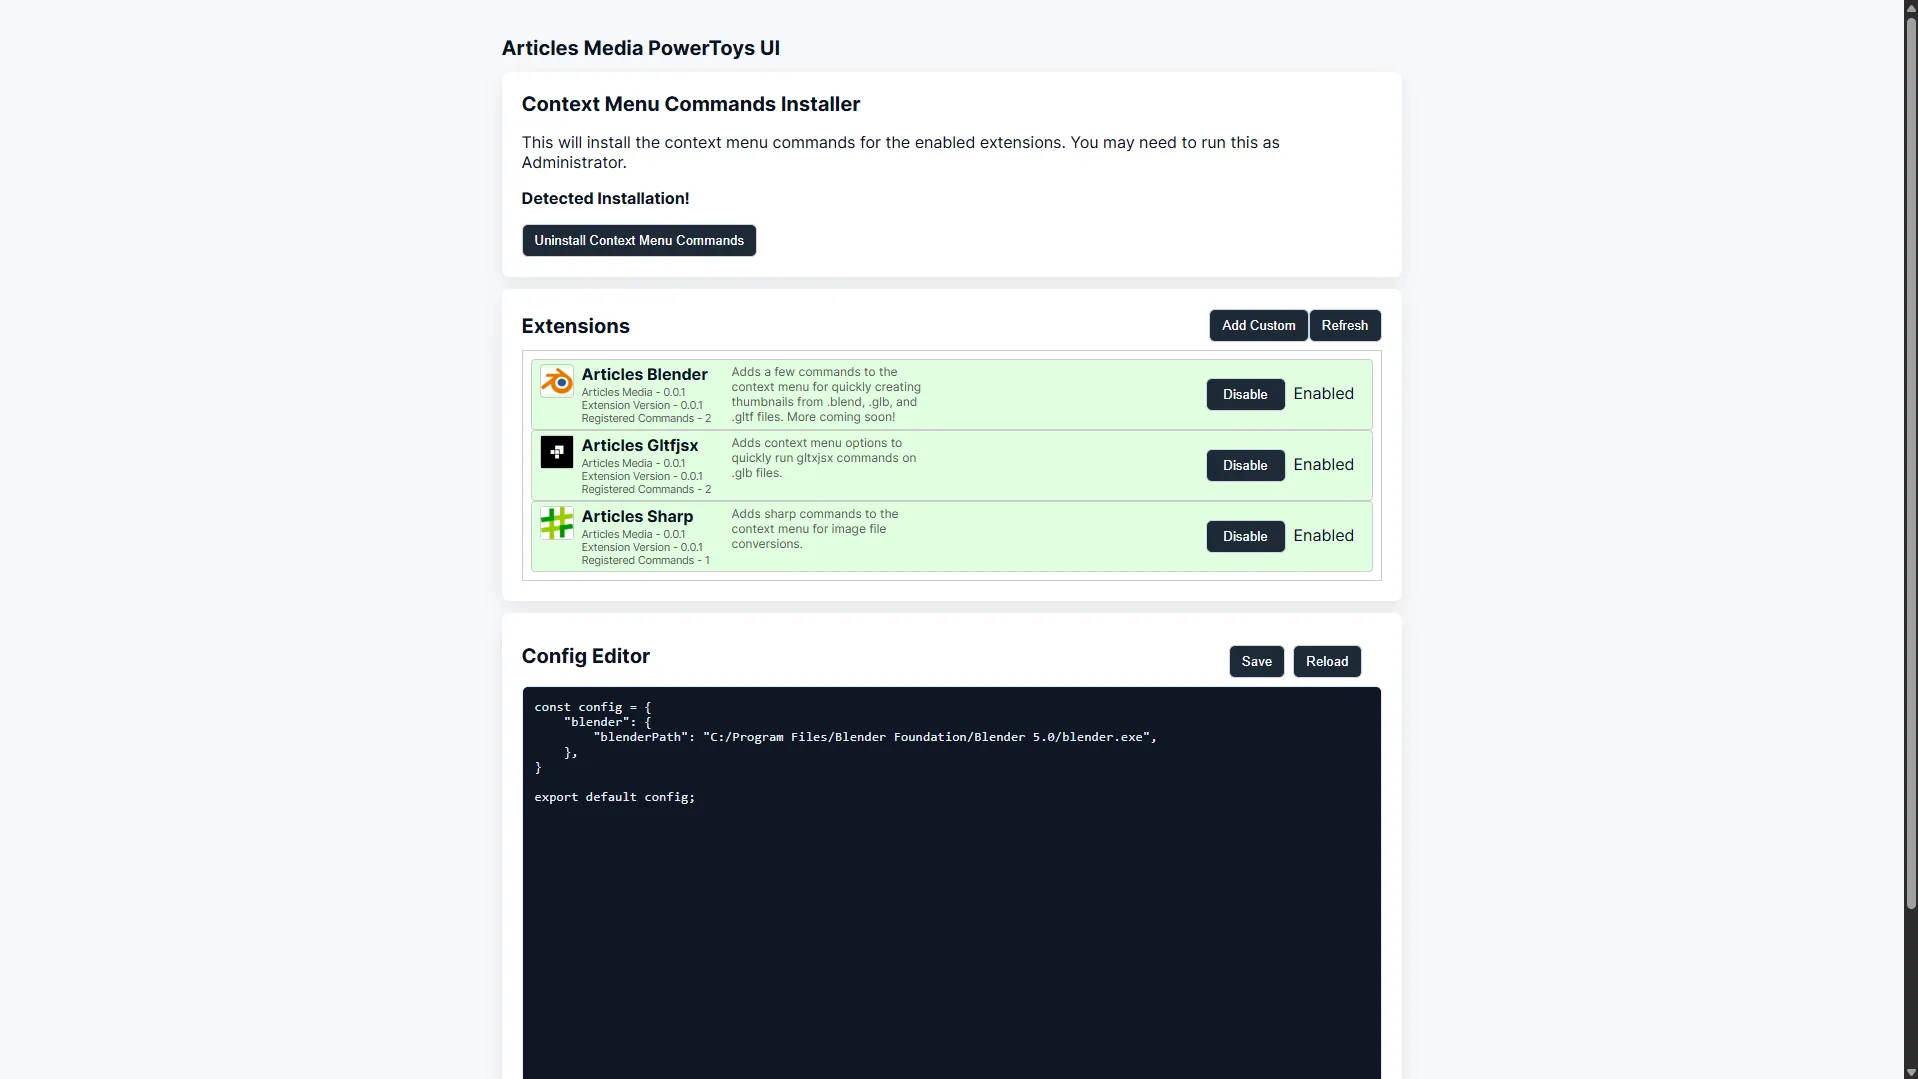
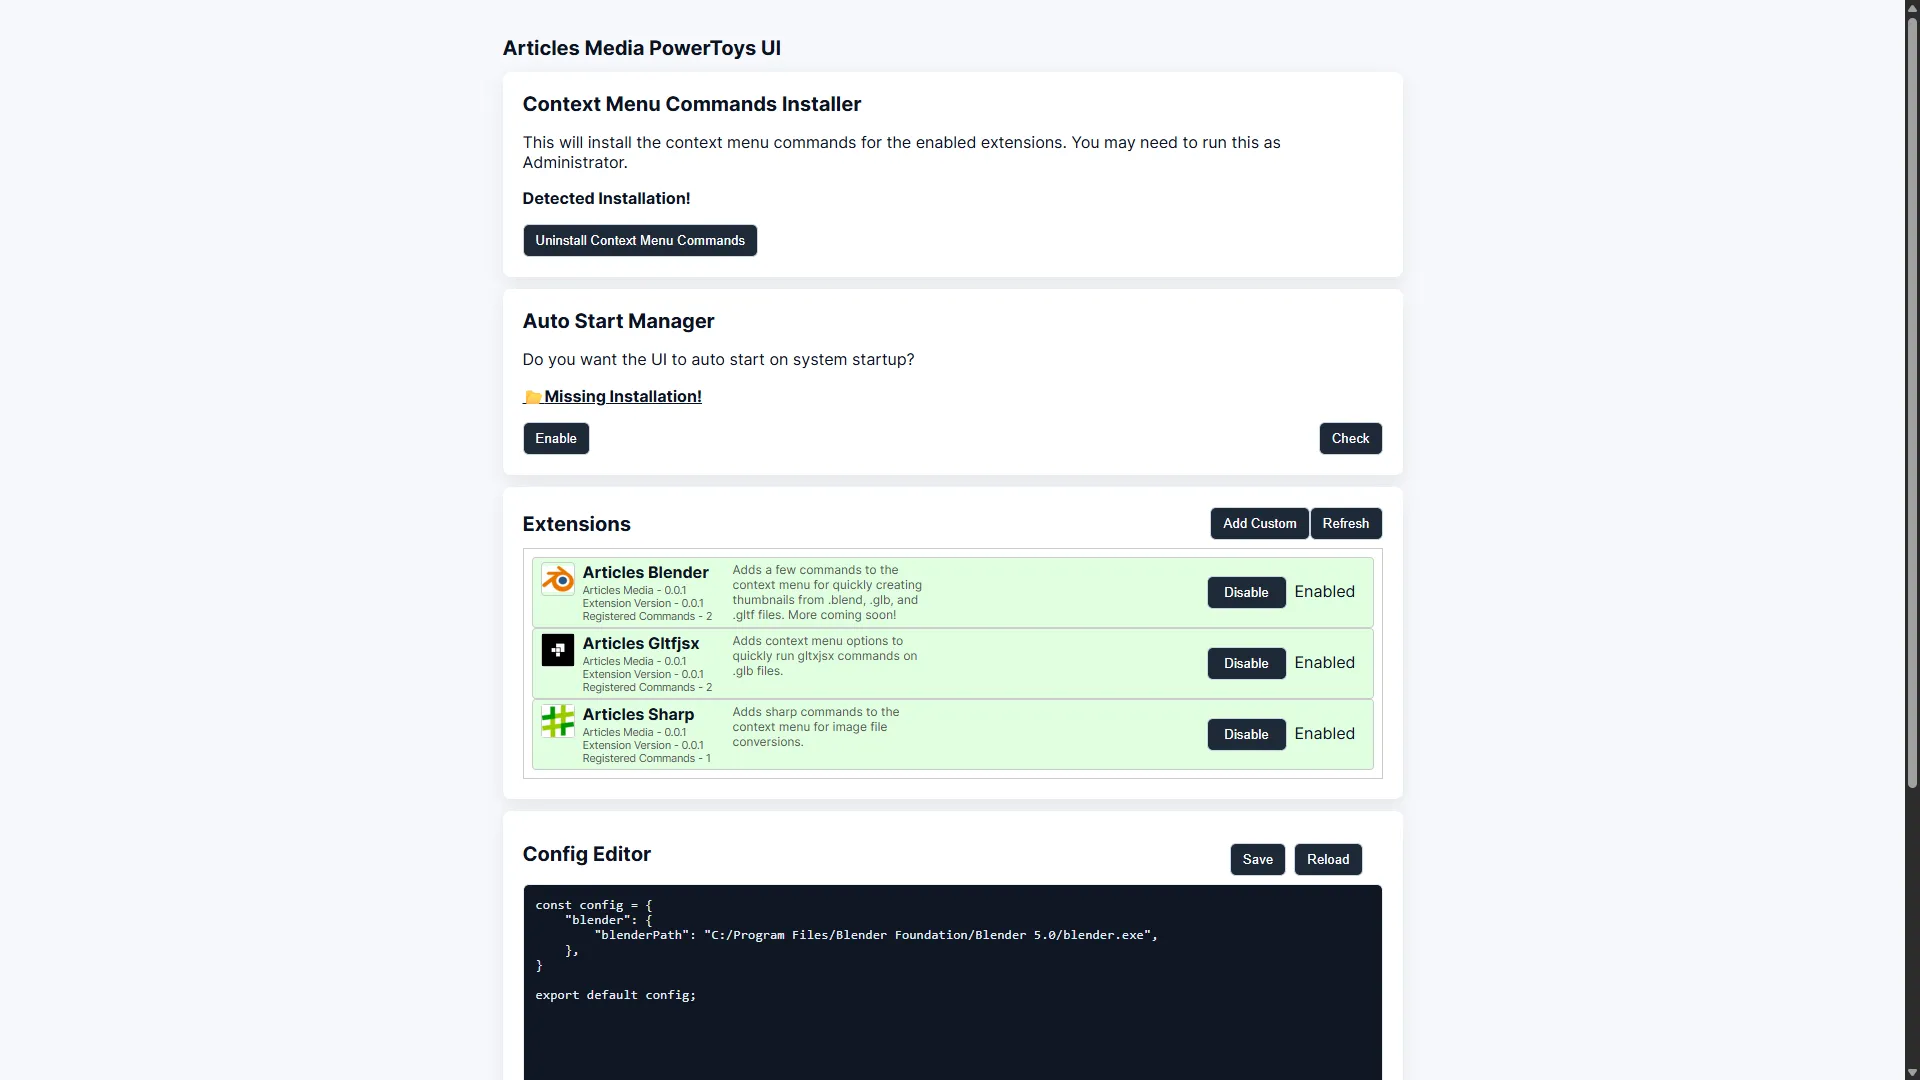
Added clickable shortcut to view targeted startup folder updated preview photo

diff --git a/ui/src/components/AutoStart.jsx b/ui/src/components/AutoStart.jsx
@@ -46,6 +46,17 @@ export default function AutoStart({
 
     }
 
+    function openStartup(startup) {
+        fetch('/api/open-startup', { method: 'POST' })
+            .then((r) => r.json())
+            .then((data) => {
+                console.log(data)
+            })
+            .catch((e) => {
+                alert('Uninstallation failed: ' + e.message)
+            })
+    }
+
     const enabledCheck = useRef()
     const [enabled, setEnabled] = useState(false)
 
@@ -67,9 +78,14 @@ export default function AutoStart({
 
             <p
                 onClick={() => {
-
+                    openStartup()
+                }}
+                style={{
+                    textDecoration: 'underline',
+                    cursor: 'pointer'
                 }}
             >
+                📂
                 {enabled ?
                     <strong>Detected Installation!</strong>
                     :

diff --git a/ui/server.js b/ui/server.js
@@ -4,7 +4,7 @@ const fsSync = require('fs')
 const path = require('path')
 const cors = require('cors')
 const os = require('os');
-const { execSync, execFileSync } = require('child_process')
+const { execSync, execFileSync, exec } = require('child_process')
 
 const app = express()
 app.use(cors())
@@ -60,6 +60,21 @@ function createStartupShortcut(shortcutPath, targetFile) {
         script
     ], { stdio: 'pipe' })
 }
+
+app.post('/api/open-startup', (req, res) => {
+    console.log("/api/open-startup");
+
+    const startupFolder = path.join(os.homedir(), 'AppData\\Roaming\\Microsoft\\Windows\\Start Menu\\Programs\\Startup');
+
+    // The 'start' command in Windows opens a folder in File Explorer
+    exec(`start "" "${startupFolder}"`, (error) => {
+        if (error) {
+            console.error('Error opening startup folder:', error);
+            return res.status(500).json({ message: 'Failed to open startup folder.', error: error.message });
+        }
+        res.json({ message: 'Startup folder opened successfully.' });
+    });
+});
 
 app.get('/api/detect-startup', (req, res) => {
 